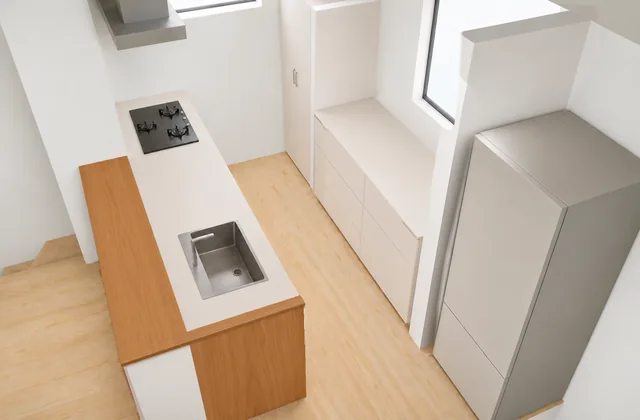
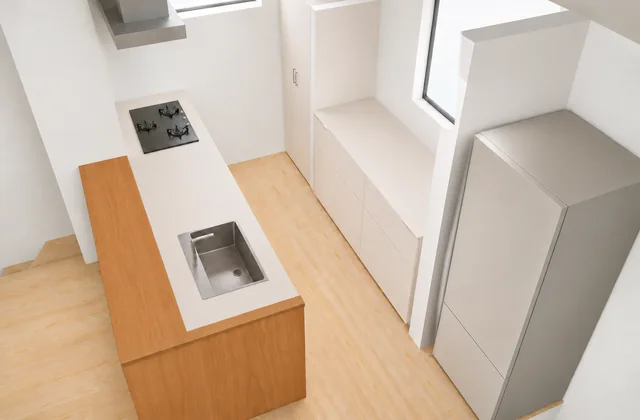
キッチン俯瞰と全体俯瞰の通路側化粧側板を更新

Changed region(s): [[0.1875, 0.8048, 0.3438, 1.0], [0.2812, 0.0, 0.375, 0.031], [0.2812, 0.3095, 0.3125, 0.3405]]

diff --git a/index.html b/index.html
@@ -21,20 +21,20 @@
     <a href="#stairs">階段・全体</a>
   </nav>
   <main>
-    <section id="living" aria-labelledby="living-title"><h2 id="living-title">リビング・ダイニング</h2><div class="cards"><a class="card card--feature" href="images/living.webp?v=09576b2" data-photo="リビングからキッチン"><img src="images/living-small.webp?v=09576b2" srcset="images/living-small.webp?v=09576b2 640w, images/living.webp?v=09576b2 1440w" sizes="(max-width: 560px) calc(100vw - 32px), (max-width: 850px) 91vw, 700px" width="640" height="420" alt="リビングからキッチン" fetchpriority="high" decoding="async"><span>リビングからキッチン</span></a>
-<a class="card" href="images/dining-table.webp?v=09576b2" data-photo="テーブルとペンダント"><img src="images/dining-table-small.webp?v=09576b2" srcset="images/dining-table-small.webp?v=09576b2 640w, images/dining-table.webp?v=09576b2 1440w" sizes="(max-width: 560px) calc(100vw - 32px), (max-width: 850px) 47vw, 360px" width="640" height="420" alt="テーブルとペンダント" loading="lazy" decoding="async"><span>テーブルとペンダント</span></a>
-<a class="card" href="images/dining-windows.webp?v=09576b2" data-photo="ダイニングの高窓"><img src="images/dining-windows-small.webp?v=09576b2" srcset="images/dining-windows-small.webp?v=09576b2 640w, images/dining-windows.webp?v=09576b2 1440w" sizes="(max-width: 560px) calc(100vw - 32px), (max-width: 850px) 47vw, 360px" width="640" height="420" alt="ダイニングの高窓" loading="lazy" decoding="async"><span>ダイニングの高窓</span></a>
-<a class="card" href="images/dining-stairwall.webp?v=09576b2" data-photo="サイドボードと階段"><img src="images/dining-stairwall-small.webp?v=09576b2" srcset="images/dining-stairwall-small.webp?v=09576b2 640w, images/dining-stairwall.webp?v=09576b2 1440w" sizes="(max-width: 560px) calc(100vw - 32px), (max-width: 850px) 47vw, 360px" width="640" height="420" alt="サイドボードと階段" loading="lazy" decoding="async"><span>サイドボードと階段</span></a>
-<a class="card" href="images/dining-reverse.webp?v=09576b2" data-photo="キッチン側からリビング"><img src="images/dining-reverse-small.webp?v=09576b2" srcset="images/dining-reverse-small.webp?v=09576b2 640w, images/dining-reverse.webp?v=09576b2 1440w" sizes="(max-width: 560px) calc(100vw - 32px), (max-width: 850px) 47vw, 360px" width="640" height="420" alt="キッチン側からリビング" loading="lazy" decoding="async"><span>キッチン側からリビング</span></a>
-<a class="card" href="images/living-window.webp?v=09576b2" data-photo="リビングの引違い窓"><img src="images/living-window-small.webp?v=09576b2" srcset="images/living-window-small.webp?v=09576b2 640w, images/living-window.webp?v=09576b2 1440w" sizes="(max-width: 560px) calc(100vw - 32px), (max-width: 850px) 47vw, 360px" width="640" height="420" alt="リビングの引違い窓" loading="lazy" decoding="async"><span>リビングの引違い窓</span></a></div></section>
-<section id="kitchen" aria-labelledby="kitchen-title"><h2 id="kitchen-title">キッチン</h2><div class="cards"><a class="card" href="images/from-sink.webp?v=09576b2" data-photo="シンク前からダイニング"><img src="images/from-sink-small.webp?v=09576b2" srcset="images/from-sink-small.webp?v=09576b2 640w, images/from-sink.webp?v=09576b2 1440w" sizes="(max-width: 560px) calc(100vw - 32px), (max-width: 850px) 47vw, 360px" width="640" height="420" alt="シンク前からダイニング" loading="lazy" decoding="async"><span>シンク前からダイニング</span></a>
-<a class="card" href="images/front-storage.webp?v=09576b2" data-photo="キッチン前収納"><img src="images/front-storage-small.webp?v=09576b2" srcset="images/front-storage-small.webp?v=09576b2 640w, images/front-storage.webp?v=09576b2 1440w" sizes="(max-width: 560px) calc(100vw - 32px), (max-width: 850px) 47vw, 360px" width="640" height="420" alt="キッチン前収納" loading="lazy" decoding="async"><span>キッチン前収納</span></a>
-<a class="card" href="images/front-storage-open.webp?v=09576b2" data-photo="キッチン前収納の開き方（確認用）"><img src="images/front-storage-open-small.webp?v=09576b2" srcset="images/front-storage-open-small.webp?v=09576b2 640w, images/front-storage-open.webp?v=09576b2 1440w" sizes="(max-width: 560px) calc(100vw - 32px), (max-width: 850px) 47vw, 360px" width="640" height="420" alt="キッチン前収納の開き方（確認用）" loading="lazy" decoding="async"><span>キッチン前収納の開き方（確認用）</span></a>
-<a class="card" href="images/kitchen-overhead.webp?v=09576b2" data-photo="キッチン俯瞰"><img src="images/kitchen-overhead-small.webp?v=09576b2" srcset="images/kitchen-overhead-small.webp?v=09576b2 640w, images/kitchen-overhead.webp?v=09576b2 1440w" sizes="(max-width: 560px) calc(100vw - 32px), (max-width: 850px) 47vw, 360px" width="640" height="420" alt="キッチン俯瞰" loading="lazy" decoding="async"><span>キッチン俯瞰</span></a>
-<a class="card" href="images/kitchen-windows.webp?v=09576b2" data-photo="キッチンの窓"><img src="images/kitchen-windows-small.webp?v=09576b2" srcset="images/kitchen-windows-small.webp?v=09576b2 640w, images/kitchen-windows.webp?v=09576b2 1440w" sizes="(max-width: 560px) calc(100vw - 32px), (max-width: 850px) 47vw, 360px" width="640" height="420" alt="キッチンの窓" loading="lazy" decoding="async"><span>キッチンの窓</span></a></div></section>
-<section id="stairs" aria-labelledby="stairs-title"><h2 id="stairs-title">階段・全体</h2><div class="cards"><a class="card" href="images/stairs-front.webp?v=09576b2" data-photo="階段正面"><img src="images/stairs-front-small.webp?v=09576b2" srcset="images/stairs-front-small.webp?v=09576b2 640w, images/stairs-front.webp?v=09576b2 1440w" sizes="(max-width: 560px) calc(100vw - 32px), (max-width: 850px) 47vw, 360px" width="640" height="420" alt="階段正面" loading="lazy" decoding="async"><span>階段正面</span></a>
-<a class="card" href="images/both-stair-turns.webp?v=09576b2" data-photo="両側の回り段"><img src="images/both-stair-turns-small.webp?v=09576b2" srcset="images/both-stair-turns-small.webp?v=09576b2 640w, images/both-stair-turns.webp?v=09576b2 1440w" sizes="(max-width: 560px) calc(100vw - 32px), (max-width: 850px) 47vw, 360px" width="640" height="420" alt="両側の回り段" loading="lazy" decoding="async"><span>両側の回り段</span></a>
-<a class="card" href="images/overview.webp?v=09576b2" data-photo="2階LDKの全体俯瞰"><img src="images/overview-small.webp?v=09576b2" srcset="images/overview-small.webp?v=09576b2 640w, images/overview.webp?v=09576b2 1440w" sizes="(max-width: 560px) calc(100vw - 32px), (max-width: 850px) 47vw, 360px" width="640" height="420" alt="2階LDKの全体俯瞰" loading="lazy" decoding="async"><span>2階LDKの全体俯瞰</span></a></div></section>
+    <section id="living" aria-labelledby="living-title"><h2 id="living-title">リビング・ダイニング</h2><div class="cards"><a class="card card--feature" href="images/living.webp?v=4eab7d3" data-photo="リビングからキッチン"><img src="images/living-small.webp?v=4eab7d3" srcset="images/living-small.webp?v=4eab7d3 640w, images/living.webp?v=4eab7d3 1440w" sizes="(max-width: 560px) calc(100vw - 32px), (max-width: 850px) 91vw, 700px" width="640" height="420" alt="リビングからキッチン" fetchpriority="high" decoding="async"><span>リビングからキッチン</span></a>
+<a class="card" href="images/dining-table.webp?v=4eab7d3" data-photo="テーブルとペンダント"><img src="images/dining-table-small.webp?v=4eab7d3" srcset="images/dining-table-small.webp?v=4eab7d3 640w, images/dining-table.webp?v=4eab7d3 1440w" sizes="(max-width: 560px) calc(100vw - 32px), (max-width: 850px) 47vw, 360px" width="640" height="420" alt="テーブルとペンダント" loading="lazy" decoding="async"><span>テーブルとペンダント</span></a>
+<a class="card" href="images/dining-windows.webp?v=4eab7d3" data-photo="ダイニングの高窓"><img src="images/dining-windows-small.webp?v=4eab7d3" srcset="images/dining-windows-small.webp?v=4eab7d3 640w, images/dining-windows.webp?v=4eab7d3 1440w" sizes="(max-width: 560px) calc(100vw - 32px), (max-width: 850px) 47vw, 360px" width="640" height="420" alt="ダイニングの高窓" loading="lazy" decoding="async"><span>ダイニングの高窓</span></a>
+<a class="card" href="images/dining-stairwall.webp?v=4eab7d3" data-photo="サイドボードと階段"><img src="images/dining-stairwall-small.webp?v=4eab7d3" srcset="images/dining-stairwall-small.webp?v=4eab7d3 640w, images/dining-stairwall.webp?v=4eab7d3 1440w" sizes="(max-width: 560px) calc(100vw - 32px), (max-width: 850px) 47vw, 360px" width="640" height="420" alt="サイドボードと階段" loading="lazy" decoding="async"><span>サイドボードと階段</span></a>
+<a class="card" href="images/dining-reverse.webp?v=4eab7d3" data-photo="キッチン側からリビング"><img src="images/dining-reverse-small.webp?v=4eab7d3" srcset="images/dining-reverse-small.webp?v=4eab7d3 640w, images/dining-reverse.webp?v=4eab7d3 1440w" sizes="(max-width: 560px) calc(100vw - 32px), (max-width: 850px) 47vw, 360px" width="640" height="420" alt="キッチン側からリビング" loading="lazy" decoding="async"><span>キッチン側からリビング</span></a>
+<a class="card" href="images/living-window.webp?v=4eab7d3" data-photo="リビングの引違い窓"><img src="images/living-window-small.webp?v=4eab7d3" srcset="images/living-window-small.webp?v=4eab7d3 640w, images/living-window.webp?v=4eab7d3 1440w" sizes="(max-width: 560px) calc(100vw - 32px), (max-width: 850px) 47vw, 360px" width="640" height="420" alt="リビングの引違い窓" loading="lazy" decoding="async"><span>リビングの引違い窓</span></a></div></section>
+<section id="kitchen" aria-labelledby="kitchen-title"><h2 id="kitchen-title">キッチン</h2><div class="cards"><a class="card" href="images/from-sink.webp?v=4eab7d3" data-photo="シンク前からダイニング"><img src="images/from-sink-small.webp?v=4eab7d3" srcset="images/from-sink-small.webp?v=4eab7d3 640w, images/from-sink.webp?v=4eab7d3 1440w" sizes="(max-width: 560px) calc(100vw - 32px), (max-width: 850px) 47vw, 360px" width="640" height="420" alt="シンク前からダイニング" loading="lazy" decoding="async"><span>シンク前からダイニング</span></a>
+<a class="card" href="images/front-storage.webp?v=4eab7d3" data-photo="キッチン前収納"><img src="images/front-storage-small.webp?v=4eab7d3" srcset="images/front-storage-small.webp?v=4eab7d3 640w, images/front-storage.webp?v=4eab7d3 1440w" sizes="(max-width: 560px) calc(100vw - 32px), (max-width: 850px) 47vw, 360px" width="640" height="420" alt="キッチン前収納" loading="lazy" decoding="async"><span>キッチン前収納</span></a>
+<a class="card" href="images/front-storage-open.webp?v=4eab7d3" data-photo="キッチン前収納の開き方（確認用）"><img src="images/front-storage-open-small.webp?v=4eab7d3" srcset="images/front-storage-open-small.webp?v=4eab7d3 640w, images/front-storage-open.webp?v=4eab7d3 1440w" sizes="(max-width: 560px) calc(100vw - 32px), (max-width: 850px) 47vw, 360px" width="640" height="420" alt="キッチン前収納の開き方（確認用）" loading="lazy" decoding="async"><span>キッチン前収納の開き方（確認用）</span></a>
+<a class="card" href="images/kitchen-overhead.webp?v=4eab7d3" data-photo="キッチン俯瞰"><img src="images/kitchen-overhead-small.webp?v=4eab7d3" srcset="images/kitchen-overhead-small.webp?v=4eab7d3 640w, images/kitchen-overhead.webp?v=4eab7d3 1440w" sizes="(max-width: 560px) calc(100vw - 32px), (max-width: 850px) 47vw, 360px" width="640" height="420" alt="キッチン俯瞰" loading="lazy" decoding="async"><span>キッチン俯瞰</span></a>
+<a class="card" href="images/kitchen-windows.webp?v=4eab7d3" data-photo="キッチンの窓"><img src="images/kitchen-windows-small.webp?v=4eab7d3" srcset="images/kitchen-windows-small.webp?v=4eab7d3 640w, images/kitchen-windows.webp?v=4eab7d3 1440w" sizes="(max-width: 560px) calc(100vw - 32px), (max-width: 850px) 47vw, 360px" width="640" height="420" alt="キッチンの窓" loading="lazy" decoding="async"><span>キッチンの窓</span></a></div></section>
+<section id="stairs" aria-labelledby="stairs-title"><h2 id="stairs-title">階段・全体</h2><div class="cards"><a class="card" href="images/stairs-front.webp?v=4eab7d3" data-photo="階段正面"><img src="images/stairs-front-small.webp?v=4eab7d3" srcset="images/stairs-front-small.webp?v=4eab7d3 640w, images/stairs-front.webp?v=4eab7d3 1440w" sizes="(max-width: 560px) calc(100vw - 32px), (max-width: 850px) 47vw, 360px" width="640" height="420" alt="階段正面" loading="lazy" decoding="async"><span>階段正面</span></a>
+<a class="card" href="images/both-stair-turns.webp?v=4eab7d3" data-photo="両側の回り段"><img src="images/both-stair-turns-small.webp?v=4eab7d3" srcset="images/both-stair-turns-small.webp?v=4eab7d3 640w, images/both-stair-turns.webp?v=4eab7d3 1440w" sizes="(max-width: 560px) calc(100vw - 32px), (max-width: 850px) 47vw, 360px" width="640" height="420" alt="両側の回り段" loading="lazy" decoding="async"><span>両側の回り段</span></a>
+<a class="card" href="images/overview.webp?v=4eab7d3" data-photo="2階LDKの全体俯瞰"><img src="images/overview-small.webp?v=4eab7d3" srcset="images/overview-small.webp?v=4eab7d3 640w, images/overview.webp?v=4eab7d3 1440w" sizes="(max-width: 560px) calc(100vw - 32px), (max-width: 850px) 47vw, 360px" width="640" height="420" alt="2階LDKの全体俯瞰" loading="lazy" decoding="async"><span>2階LDKの全体俯瞰</span></a></div></section>
   </main>
   <footer>俯瞰や回り段の一部は、内部が見えるように壁や天井を外して表示しています。</footer>
   <dialog aria-labelledby="photo-title">
